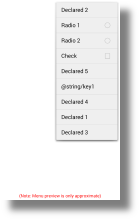
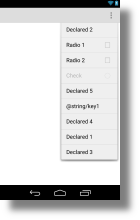
Fix MenuPreviewRendererTest
Now that the test machines have android-L installed, layoutlib
supports native actionbar/menu rendering, which provides better
(and different) rendering, requiring the rendered master thumbnails
(which are image-diffed as part of the test) to be updated.

Changed region(s): [[0.0, 0.0, 0.8571, 0.7364], [0.0, 0.8182, 0.8571, 0.9273]]

diff --git a/android/testSrc/com/android/tools/idea/rendering/MenuPreviewRendererTest.java b/android/testSrc/com/android/tools/idea/rendering/MenuPreviewRendererTest.java
@@ -15,6 +15,7 @@
  */
 package com.android.tools.idea.rendering;
 
+import com.android.ide.common.rendering.api.Capability;
 import com.android.ide.common.rendering.api.ILayoutPullParser;
 import com.android.ide.common.xml.XmlPrettyPrinter;
 import com.android.tools.idea.configurations.Configuration;
@@ -34,7 +35,7 @@ public class MenuPreviewRendererTest extends RenderTestBase {
     Element root = ((DomPullParser)parser).getRoot();
 
     String layout = XmlPrettyPrinter.prettyPrint(root, true);
-    assertEquals(
+    String oldXml =
       "<LinearLayout\n" +
       "xmlns:android=\"http://schemas.android.com/apk/res/android\"\n" +
       "layout_width=\"fill_parent\"\n" +
@@ -395,10 +396,20 @@ public class MenuPreviewRendererTest extends RenderTestBase {
       "    gravity=\"center\"\n" +
       "    text=\"(Note: Menu preview is only approximate)\"\n" +
       "    textColor=\"#ff0000\" />\n" +
-      "</LinearLayout>\n",
-      layout);
+      "</LinearLayout>\n";
+    String newXml = "<FrameLayout\n" +
+               "xmlns:android=\"http://schemas.android.com/apk/res/android\"\n" +
+               "android:layout_width=\"match_parent\"\n" +
+               "android:layout_height=\"match_parent\" />\n";
 
-    checkRendering(service, "menu/menu1.png");
+    if (service.getLayoutLib().supports(Capability.ACTION_BAR)) {
+      checkRendering(service, "menu/menu1.png");
+      assertEquals(newXml, layout);
+    } else {
+      assertEquals(oldXml, layout);
+      System.err.println("Not running MenuPreviewRendererTest.test: Associated layoutlib in test SDK needs " +
+                         "to use API 21 or higher");
+    }
   }
 
   public void testLightTheme() throws Exception {
@@ -409,6 +420,11 @@ public class MenuPreviewRendererTest extends RenderTestBase {
     RenderService service = getRenderService(file, configuration);
     assertNotNull(service);
 
-    checkRendering(service, "menu/menu1-light.png");
+    if (service.getLayoutLib().supports(Capability.ACTION_BAR)) {
+      checkRendering(service, "menu/menu1-light.png");
+    } else {
+      System.err.println("Not running MenuPreviewRendererTest.testLightTheme: Associated layoutlib in test SDK needs " +
+                         "to use API 21 or higher");
+    }
   }
 }
